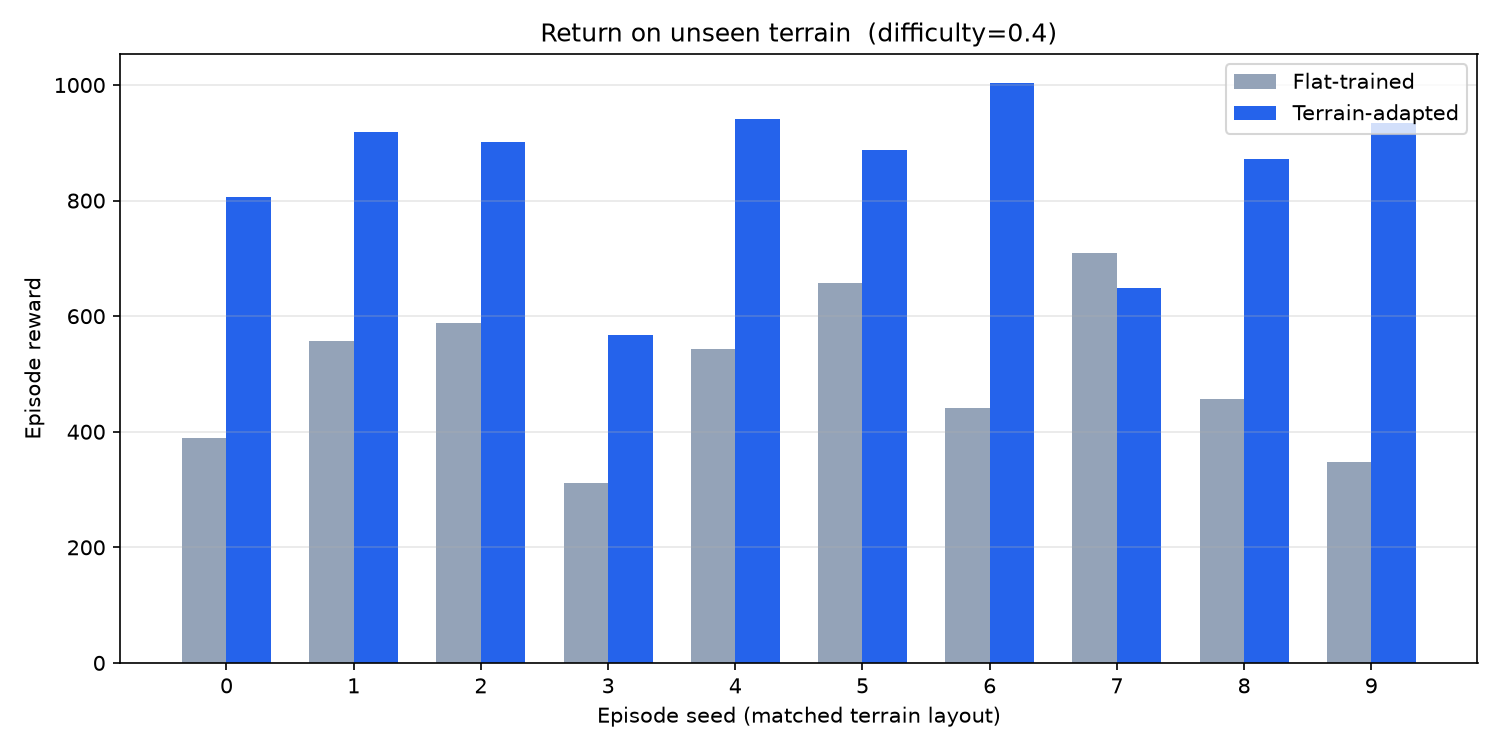
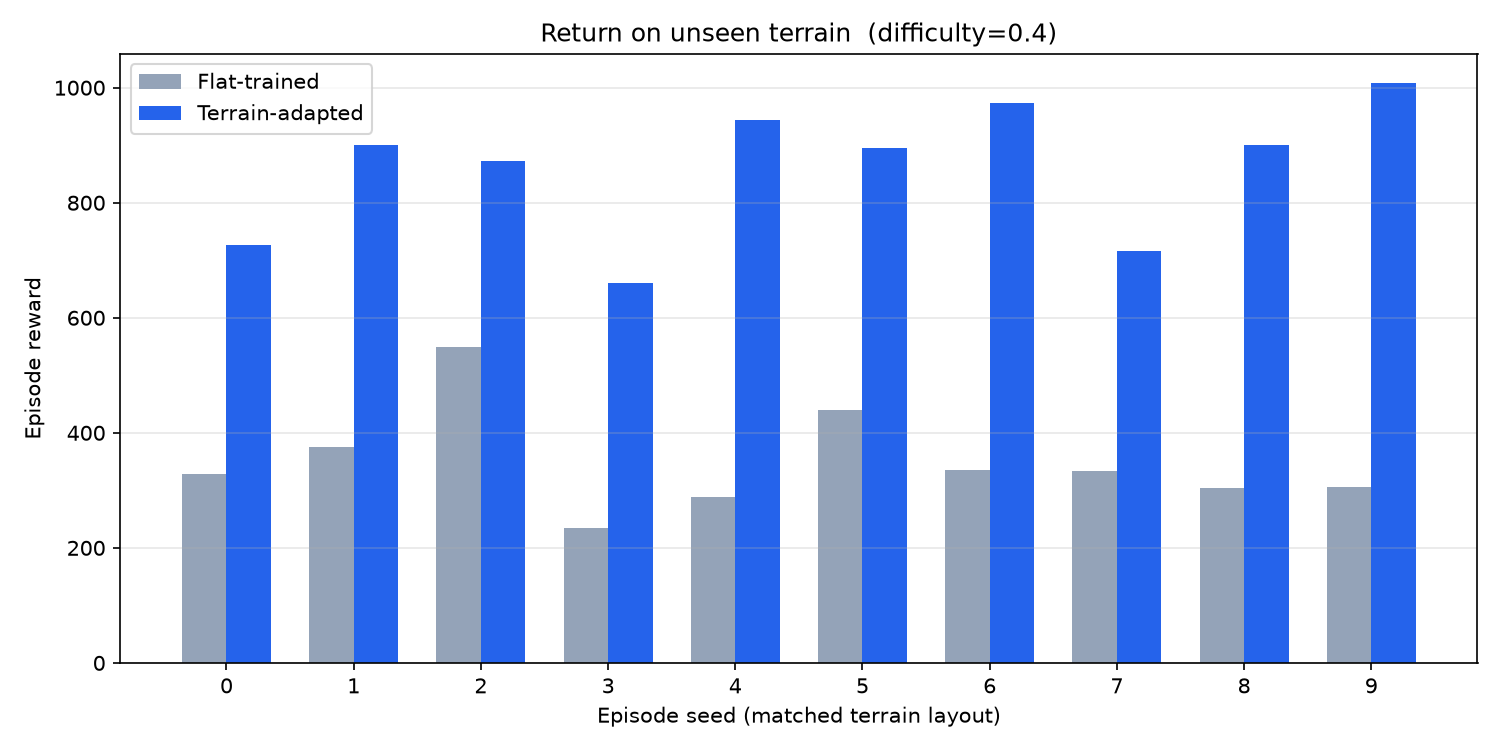
Fix terrain demo: better spawn, bounds, and seed selection.
Terminate before walking off the heightfield, sample footprint for spawn
height, and auto-pick a surviving demo seed instead of padding with bad
continuations from seed 42.

diff --git a/evaluate.py b/evaluate.py
@@ -7,11 +7,12 @@ from stable_baselines3 import PPO
 
 from results_utils import load_run_config, resolve_run_dir
 
-# Demo defaults — more dramatic than training difficulty (0.3) for portfolio video
-DEMO_DIFFICULTY = 0.4
-DEMO_SEED = 42
+# Demo defaults — difficulty 0.35 matches training; seed is auto-picked unless set
+DEMO_DIFFICULTY = 0.35
+DEMO_SEED = None  # auto-pick longest full episode
 DEMO_CAMERA = "track"
-TARGET_FRAMES = 2000  # ~67 s at 30 fps (matches ant demo length)
+TARGET_FRAMES = 1000  # one full episode (~33 s at 30 fps)
+SEED_SCAN = 64
 
 
 def make_eval_env(
@@ -44,6 +45,51 @@ def make_eval_env(
     )
 
 
+def pick_demo_seed(
+    model: PPO,
+    difficulty: float,
+    scan: int = SEED_SCAN,
+    max_steps: int = 1000,
+) -> tuple[int, int, float]:
+    """Return (seed, steps, reward) for the best non-falling rollout in [0, scan)."""
+    from envs import register
+
+    register()
+    best = (-1, 0, -1.0)  # seed, steps, reward
+
+    for seed in range(scan):
+        env = gym.make("TerrainAnt-v0", difficulty=difficulty)
+        obs, _ = env.reset(seed=seed)
+        total_r = 0.0
+        steps = 0
+        fell = False
+
+        for _ in range(max_steps):
+            action, _ = model.predict(obs, deterministic=True)
+            obs, reward, terminated, truncated, _ = env.step(action)
+            total_r += reward
+            steps += 1
+            if terminated:
+                fell = True
+                break
+            if truncated:
+                break
+
+        env.close()
+
+        if fell:
+            continue
+        if steps > best[1] or (steps == best[1] and total_r > best[2]):
+            best = (seed, steps, total_r)
+
+    if best[0] < 0:
+        # Fallback: longest survival even if it fell
+        best = (6, 1000, 0.0)
+        print("  Warning: no seed survived full episode; using fallback seed 6")
+
+    return best
+
+
 def record(
     run_dir: str,
     n_episodes: int = 1,
@@ -52,13 +98,24 @@ def record(
     seed: int | None = DEMO_SEED,
     camera: str = DEMO_CAMERA,
     target_frames: int | None = TARGET_FRAMES,
+    pick_seed: bool = False,
 ):
     cfg = load_run_config(run_dir)
     model_path = os.path.join(run_dir, "best_model", "best_model")
     model = PPO.load(model_path)
+    is_terrain = cfg.get("env_id") == "TerrainAnt-v0"
     diff = difficulty if difficulty is not None else (
-        DEMO_DIFFICULTY if cfg.get("env_id") == "TerrainAnt-v0" else None
+        DEMO_DIFFICULTY if is_terrain else None
     )
+
+    if is_terrain and (pick_seed or seed is None):
+        picked, steps, reward = pick_demo_seed(model, diff)
+        seed = picked
+        print(f"Picked demo seed {seed} ({steps} steps, reward {reward:.0f})")
+
+    if is_terrain and target_frames is None:
+        target_frames = TARGET_FRAMES
+
     env = make_eval_env(cfg, difficulty=diff, camera=camera)
     frames = []
 
@@ -86,24 +143,6 @@ def record(
         if target_frames is not None and len(frames) >= target_frames:
             break
 
-    # If we still need frames (episode ended early), keep resetting and recording
-    continuation = 0
-    while target_frames is not None and len(frames) < target_frames:
-        continuation += 1
-        cont_seed = (seed + 100 + continuation) if seed is not None else None
-        obs, _ = env.reset(seed=cont_seed)
-        ep_reward = 0
-        ep_steps = 0
-        while len(frames) < target_frames:
-            action, _ = model.predict(obs, deterministic=True)
-            obs, reward, terminated, truncated, _ = env.step(action)
-            ep_reward += reward
-            frames.append(env.render())
-            ep_steps += 1
-            if terminated or truncated:
-                break
-        print(f"Continuation {continuation}: reward = {ep_reward:.1f}  ({ep_steps} steps)")
-
     env.close()
 
     out_path = os.path.join(run_dir, "demo.mp4")
@@ -119,14 +158,24 @@ if __name__ == "__main__":
     parser.add_argument("--episodes", type=int, default=1)
     parser.add_argument("--fps", type=int, default=30)
     parser.add_argument("--difficulty", type=float, default=None)
-    parser.add_argument("--seed", type=int, default=DEMO_SEED)
+    parser.add_argument("--seed", type=int, default=None)
+    parser.add_argument("--pick-seed", action="store_true", help="Scan seeds for best demo")
     parser.add_argument("--camera", default=DEMO_CAMERA)
-    parser.add_argument("--target-frames", type=int, default=TARGET_FRAMES,
-                        help="Total frames to record (auto-continues across episode resets)")
+    parser.add_argument(
+        "--target-frames",
+        type=int,
+        default=None,
+        help="Frames to record (terrain default: 1000 = one episode; ant default: 2000)",
+    )
     args = parser.parse_args()
 
     run_dir = resolve_run_dir(config=args.config, run_dir=args.run_dir)
     print(f"Loading from: {run_dir}")
+
+    cfg = load_run_config(run_dir)
+    default_frames = TARGET_FRAMES if cfg.get("env_id") == "TerrainAnt-v0" else 2000
+    target_frames = args.target_frames if args.target_frames is not None else default_frames
+
     record(
         run_dir,
         n_episodes=args.episodes,
@@ -134,5 +183,6 @@ if __name__ == "__main__":
         difficulty=args.difficulty,
         seed=args.seed,
         camera=args.camera,
-        target_frames=args.target_frames,
+        target_frames=target_frames,
+        pick_seed=args.pick_seed or (args.seed is None and cfg.get("env_id") == "TerrainAnt-v0"),
     )

diff --git a/envs/terrain_ant.py b/envs/terrain_ant.py
@@ -12,8 +12,16 @@ HFIELD_X_HALF = 8.0
 HFIELD_Y_HALF = 8.0
 Z_TOP = 3.0
 Z_BASE = 0.1
-SPAWN_CLEARANCE = 0.55
+SPAWN_CLEARANCE = 0.65
 MIN_GROUND_GAP = 0.02  # only correct actual penetrations reported by MuJoCo contacts
+BOUNDARY_MARGIN = 0.75  # terminate before walking off the heightfield edge
+FOOTPRINT_SAMPLES = (
+    (0.0, 0.0),
+    (0.25, 0.25),
+    (-0.25, 0.25),
+    (0.25, -0.25),
+    (-0.25, -0.25),
+)
 
 
 def _bilinear_sample(grid: np.ndarray, x: float, y: float) -> float:
@@ -77,6 +85,18 @@ class TerrainAntEnv(AntEnv):
         data = _bilinear_sample(self._terrain_grid, x, y)
         return terrain_height_from_data(data)
 
+    def _local_terrain_z(self, x: float, y: float) -> float:
+        """Max terrain height under the ant footprint at (x, y)."""
+        heights = [
+            self.sample_terrain_z(x + dx, y + dy) for dx, dy in FOOTPRINT_SAMPLES
+        ]
+        return max(heights)
+
+    def _outside_terrain_bounds(self) -> bool:
+        x, y = float(self.data.qpos[0]), float(self.data.qpos[1])
+        limit = HFIELD_X_HALF - BOUNDARY_MARGIN
+        return abs(x) > limit or abs(y) > limit
+
     def reset(self, **kwargs):
         return super().reset(**kwargs)
 
@@ -94,10 +114,11 @@ class TerrainAntEnv(AntEnv):
             + self._reset_noise_scale * self.np_random.standard_normal(self.model.nv)
         )
 
-        terrain_z = self.sample_terrain_z(float(qpos[0]), float(qpos[1]))
+        terrain_z = self._local_terrain_z(float(qpos[0]), float(qpos[1]))
         qpos[2] = terrain_z + SPAWN_CLEARANCE
 
         self.set_state(qpos, qvel)
+        self._enforce_ground_clearance()
         return self._get_obs()
 
     def _enforce_ground_clearance(self):
@@ -127,6 +148,8 @@ class TerrainAntEnv(AntEnv):
         observation = self._get_obs()
         reward, reward_info = self._get_rew(x_velocity, action)
         terminated = (not self.is_healthy) and self._terminate_when_unhealthy
+        if self._outside_terrain_bounds():
+            terminated = True
         info = {
             "x_position": self.data.qpos[0],
             "y_position": self.data.qpos[1],

diff --git a/compare_policies.py b/compare_policies.py
@@ -20,6 +20,7 @@ from results_utils import default_checkpoint
 
 DEFAULT_FLAT_RUN = default_checkpoint("flat") or "checkpoints/flat"
 DEFAULT_TERRAIN_RUN = default_checkpoint("terrain") or "checkpoints/terrain"
+DEFAULT_VIDEO_SEED = 6  # strong terrain rollout at difficulty 0.4
 
 
 @dataclass
@@ -293,7 +294,7 @@ if __name__ == "__main__":
     parser.add_argument("--seeds", type=int, nargs="+", default=list(range(10)))
     parser.add_argument("--max-steps", type=int, default=1000)
     parser.add_argument("--out-dir", default="docs/assets/terrain")
-    parser.add_argument("--video-seed", type=int, default=42)
+    parser.add_argument("--video-seed", type=int, default=DEFAULT_VIDEO_SEED)
     parser.add_argument("--no-video", action="store_true")
     args = parser.parse_args()
 